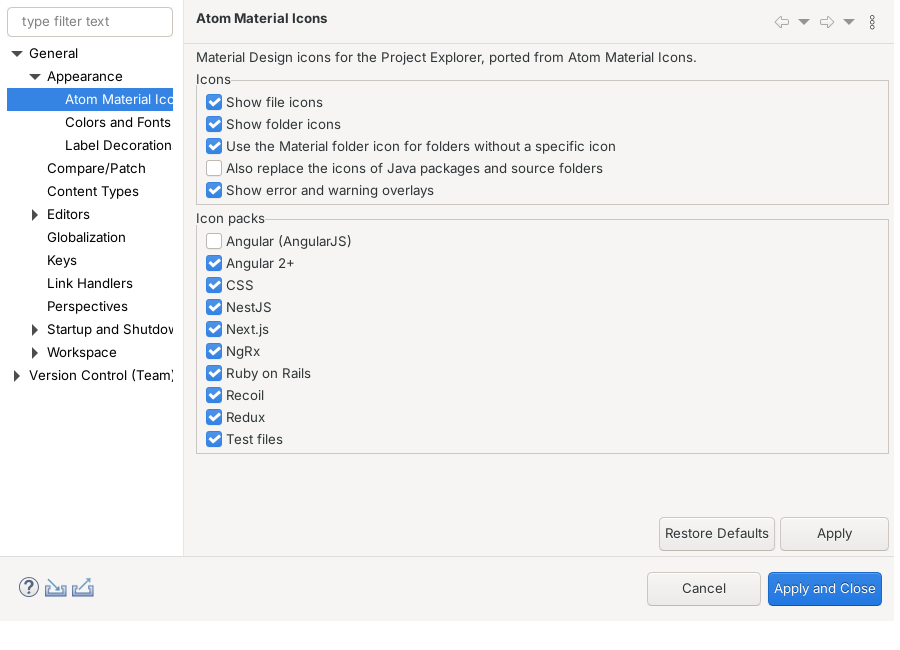
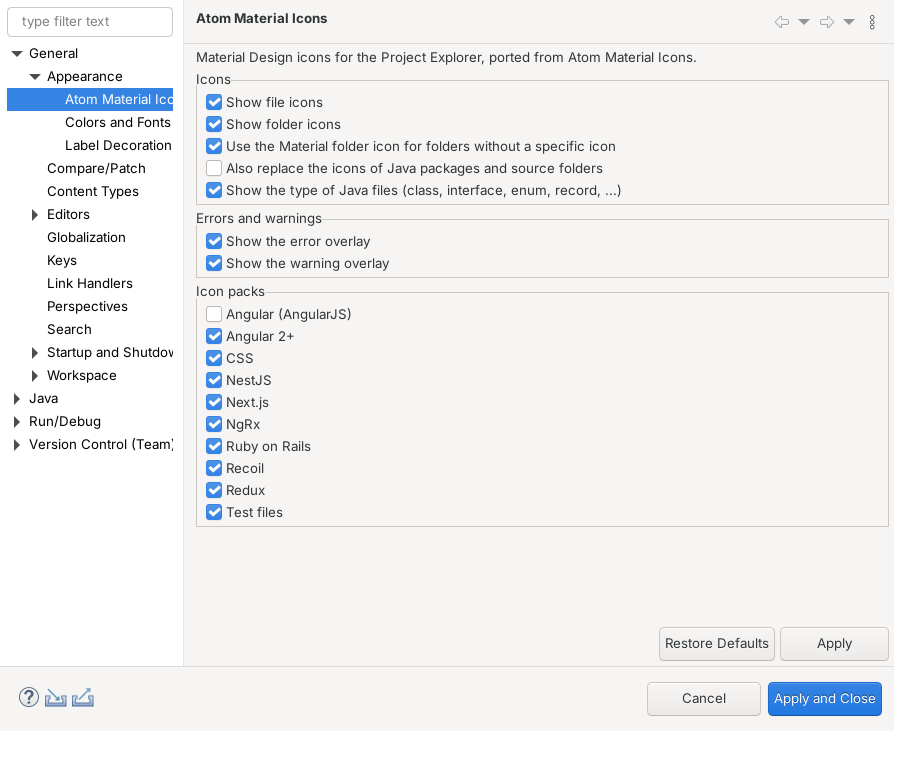
Configure error and warning overlays separately
The single "Show error and warning overlays" option becomes two options
in a new "Errors and warnings" group of the preference page. With only
warnings shown, a resource with errors and warnings shows the warning
overlay. The former combined setting is migrated to both options.

diff --git a/bundles/io.github.socra167.atommaterialicons/src/io/github/socra167/atommaterialicons/navigator/MaterialIconLabelProvider.java b/bundles/io.github.socra167.atommaterialicons/src/io/github/socra167/atommaterialicons/navigator/MaterialIconLabelProvider.java
@@ -111,8 +111,8 @@ public class MaterialIconLabelProvider extends LabelProvider
 		}
 
 		ImageDescriptor descriptor = activator.getImageDescriptor(icon);
-		if (current.problemOverlays) {
-			descriptor = addProblemOverlay(descriptor, resource);
+		if (current.errorOverlays || current.warningOverlays) {
+			descriptor = addProblemOverlay(descriptor, resource, current.errorOverlays, current.warningOverlays);
 		}
 		return getResources().create(descriptor);
 	}
@@ -140,30 +140,45 @@ public class MaterialIconLabelProvider extends LabelProvider
 		return resource.getFullPath().toString();
 	}
 
-	private static ImageDescriptor addProblemOverlay(ImageDescriptor descriptor, IResource resource) {
+	/**
+	 * Adds the overlay of the most severe problem whose overlay is enabled. When only warnings are
+	 * shown, a resource with errors and warnings still gets the warning overlay.
+	 */
+	private static ImageDescriptor addProblemOverlay(ImageDescriptor descriptor, IResource resource, boolean errors,
+			boolean warnings) {
 		if (!resource.isAccessible()) {
 			return descriptor;
 		}
-		String overlay;
+		String overlay = null;
 		try {
 			int depth = resource.getType() == IResource.FILE ? IResource.DEPTH_ZERO : IResource.DEPTH_INFINITE;
-			switch (resource.findMaxProblemSeverity(IMarker.PROBLEM, true, depth)) {
-			case IMarker.SEVERITY_ERROR:
+			int severity = resource.findMaxProblemSeverity(IMarker.PROBLEM, true, depth);
+			if (severity == IMarker.SEVERITY_ERROR && errors) {
 				overlay = ISharedImages.IMG_DEC_FIELD_ERROR;
-				break;
-			case IMarker.SEVERITY_WARNING:
+			} else if (warnings && (severity == IMarker.SEVERITY_WARNING
+					|| (severity == IMarker.SEVERITY_ERROR && hasWarnings(resource, depth)))) {
 				overlay = ISharedImages.IMG_DEC_FIELD_WARNING;
-				break;
-			default:
-				return descriptor;
 			}
 		} catch (CoreException e) {
 			// markers may change concurrently, show the plain icon
 			return descriptor;
 		}
+		if (overlay == null) {
+			return descriptor;
+		}
 		ImageDescriptor overlayDescriptor = PlatformUI.getWorkbench().getSharedImages().getImageDescriptor(overlay);
 		return new ProblemOverlayIcon(descriptor, overlayDescriptor);
 	}
+
+	private static boolean hasWarnings(IResource resource, int depth) throws CoreException {
+		for (IMarker marker : resource.findMarkers(IMarker.PROBLEM, true, depth)) {
+			if (marker.getAttribute(IMarker.SEVERITY, -1) == IMarker.SEVERITY_WARNING) {
+				return true;
+			}
+		}
+		return false;
+	}
+
 
 	private LocalResourceManager getResources() {
 		if (resources == null) {
@@ -204,7 +219,7 @@ public class MaterialIconLabelProvider extends LabelProvider
 	public void resourceChanged(IResourceChangeEvent event) {
 		Settings current = settings;
 		Set<IResource> changed = new LinkedHashSet<>();
-		if (current.problemOverlays) {
+		if (current.errorOverlays || current.warningOverlays) {
 			for (IMarkerDelta delta : event.findMarkerDeltas(IMarker.PROBLEM, true)) {
 				// the severity of folders aggregates their content, so update the ancestors too
 				for (IResource r = delta.getResource(); r != null && r.getType() != IResource.ROOT; r = r.getParent()) {
@@ -282,7 +297,7 @@ public class MaterialIconLabelProvider extends LabelProvider
 	 * Snapshot of the preferences, so that they are not looked up for every label.
 	 */
 	private record Settings(boolean fileIcons, boolean folderIcons, boolean defaultFolderIcon,
-			boolean modelElementFolders, boolean problemOverlays, boolean javaTypeIcons) {
+			boolean modelElementFolders, boolean errorOverlays, boolean warningOverlays, boolean javaTypeIcons) {
 
 		static Settings load() {
 			return new Settings(
@@ -290,7 +305,8 @@ public class MaterialIconLabelProvider extends LabelProvider
 					PreferenceConstants.getBoolean(PreferenceConstants.FOLDER_ICONS),
 					PreferenceConstants.getBoolean(PreferenceConstants.DEFAULT_FOLDER_ICON),
 					PreferenceConstants.getBoolean(PreferenceConstants.MODEL_ELEMENT_FOLDERS),
-					PreferenceConstants.getBoolean(PreferenceConstants.PROBLEM_OVERLAYS),
+					PreferenceConstants.getBoolean(PreferenceConstants.ERROR_OVERLAYS),
+					PreferenceConstants.getBoolean(PreferenceConstants.WARNING_OVERLAYS),
 					PreferenceConstants.getBoolean(PreferenceConstants.JAVA_TYPE_ICONS));
 		}
 	}

diff --git a/tests/io.github.socra167.atommaterialicons.uitests/src/io/github/socra167/atommaterialicons/uitests/ProjectExplorerIconsTest.java b/tests/io.github.socra167.atommaterialicons.uitests/src/io/github/socra167/atommaterialicons/uitests/ProjectExplorerIconsTest.java
@@ -16,6 +16,7 @@ import org.eclipse.core.resources.IProject;
 import org.eclipse.core.resources.IResource;
 import org.eclipse.core.resources.ResourcesPlugin;
 import org.eclipse.core.runtime.CoreException;
+import org.eclipse.core.runtime.preferences.IEclipsePreferences;
 import org.eclipse.core.runtime.preferences.InstanceScope;
 import org.eclipse.swt.graphics.Image;
 import org.eclipse.swt.graphics.ImageData;
@@ -54,7 +55,10 @@ class ProjectExplorerIconsTest {
 
 	@AfterEach
 	void tearDown() throws CoreException {
-		InstanceScope.INSTANCE.getNode(Activator.PLUGIN_ID).remove(PreferenceConstants.FILE_ICONS);
+		IEclipsePreferences preferences = InstanceScope.INSTANCE.getNode(Activator.PLUGIN_ID);
+		preferences.remove(PreferenceConstants.FILE_ICONS);
+		preferences.remove(PreferenceConstants.ERROR_OVERLAYS);
+		preferences.remove(PreferenceConstants.WARNING_OVERLAYS);
 		project.delete(true, true, null);
 	}
 
@@ -82,7 +86,10 @@ class ProjectExplorerIconsTest {
 		processEvents();
 		assertFalse(sameImage(imageOf(explorer, pom), "icons/files/maven.png"), "file icons should be turned off");
 
-		InstanceScope.INSTANCE.getNode(Activator.PLUGIN_ID).remove(PreferenceConstants.FILE_ICONS);
+		IEclipsePreferences preferences = InstanceScope.INSTANCE.getNode(Activator.PLUGIN_ID);
+		preferences.remove(PreferenceConstants.FILE_ICONS);
+		preferences.remove(PreferenceConstants.ERROR_OVERLAYS);
+		preferences.remove(PreferenceConstants.WARNING_OVERLAYS);
 		processEvents();
 		assertShows(explorer, "icons/files/maven.png", pom);
 	}
@@ -106,6 +113,54 @@ class ProjectExplorerIconsTest {
 		processEvents();
 		assertShows(explorer, "icons/files/java.png", java);
 		assertShows(explorer, "icons/folders/src.png", project.getFolder("src"));
+	}
+
+	@Test
+	void errorAndWarningOverlaysCanBeTurnedOffSeparately() throws CoreException {
+		IEclipsePreferences preferences = InstanceScope.INSTANCE.getNode(Activator.PLUGIN_ID);
+		IFile java = project.getFile("src/Foo.java");
+		IFile pom = project.getFile("pom.xml");
+		IMarker error = java.createMarker(IMarker.PROBLEM);
+		error.setAttribute(IMarker.SEVERITY, IMarker.SEVERITY_ERROR);
+		IMarker warning = java.createMarker(IMarker.PROBLEM);
+		warning.setAttribute(IMarker.SEVERITY, IMarker.SEVERITY_WARNING);
+		pom.createMarker(IMarker.PROBLEM).setAttribute(IMarker.SEVERITY, IMarker.SEVERITY_WARNING);
+		processEvents();
+		assertTrue(redPixelsInBottomLeft(imageOf(explorer, java).getImageData()) > 10, "error overlay");
+		assertTrue(yellowPixelsInBottomLeft(imageOf(explorer, pom).getImageData()) > 5, "warning overlay");
+
+		// without error overlays, a file with errors and warnings shows the warning
+		preferences.putBoolean(PreferenceConstants.ERROR_OVERLAYS, false);
+		processEvents();
+		ImageData javaImage = imageOf(explorer, java).getImageData();
+		assertTrue(redPixelsInBottomLeft(javaImage) == 0, "no error overlay");
+		assertTrue(yellowPixelsInBottomLeft(javaImage) > 5, "warning overlay instead");
+		error.delete();
+		warning.delete();
+		error = java.createMarker(IMarker.PROBLEM);
+		error.setAttribute(IMarker.SEVERITY, IMarker.SEVERITY_ERROR);
+		processEvents();
+		assertShows(explorer, "icons/files/java.png", java);
+
+		// without warning overlays
+		preferences.putBoolean(PreferenceConstants.ERROR_OVERLAYS, true);
+		preferences.putBoolean(PreferenceConstants.WARNING_OVERLAYS, false);
+		processEvents();
+		assertTrue(redPixelsInBottomLeft(imageOf(explorer, java).getImageData()) > 10, "error overlay");
+		assertShows(explorer, "icons/files/maven.png", pom);
+	}
+
+	private static int yellowPixelsInBottomLeft(ImageData image) {
+		int count = 0;
+		for (int x = 0; x < 7; x++) {
+			for (int y = image.height - 8; y < image.height; y++) {
+				RGB rgb = image.palette.getRGB(image.getPixel(x, y));
+				if (image.getAlpha(x, y) > 0 && rgb.red > 180 && rgb.green > 120 && rgb.blue < 110) {
+					count++;
+				}
+			}
+		}
+		return count;
 	}
 
 	private static int redPixelsInBottomLeft(ImageData image) {

diff --git a/tests/io.github.socra167.atommaterialicons.uitests/src/io/github/socra167/atommaterialicons/uitests/PreferencePageTest.java b/tests/io.github.socra167.atommaterialicons.uitests/src/io/github/socra167/atommaterialicons/uitests/PreferencePageTest.java
@@ -2,18 +2,23 @@ package io.github.socra167.atommaterialicons.uitests;
 
 import static org.junit.jupiter.api.Assertions.assertEquals;
 import static org.junit.jupiter.api.Assertions.assertFalse;
+import static org.junit.jupiter.api.Assertions.assertNotSame;
+import static org.junit.jupiter.api.Assertions.assertNull;
+import static org.junit.jupiter.api.Assertions.assertSame;
 import static org.junit.jupiter.api.Assertions.assertTrue;
 import static org.junit.jupiter.api.Assertions.fail;
 
 import java.util.ArrayList;
 import java.util.List;
 
+import org.eclipse.core.runtime.preferences.IEclipsePreferences;
 import org.eclipse.core.runtime.preferences.InstanceScope;
 import org.eclipse.swt.SWT;
 import org.eclipse.swt.layout.FillLayout;
 import org.eclipse.swt.widgets.Button;
 import org.eclipse.swt.widgets.Composite;
 import org.eclipse.swt.widgets.Control;
+import org.eclipse.swt.widgets.Group;
 import org.eclipse.swt.widgets.Shell;
 import org.eclipse.ui.PlatformUI;
 import org.junit.jupiter.api.AfterEach;
@@ -23,6 +28,7 @@ import org.junit.jupiter.api.Test;
 import io.github.socra167.atommaterialicons.Activator;
 import io.github.socra167.atommaterialicons.preferences.MaterialIconsPreferencePage;
 import io.github.socra167.atommaterialicons.preferences.PreferenceConstants;
+import io.github.socra167.atommaterialicons.preferences.PreferenceInitializer;
 
 class PreferencePageTest {
 
@@ -48,11 +54,42 @@ class PreferencePageTest {
 	@Test
 	void showsAllOptionsWithTheirDefaults() {
 		List<Button> checkboxes = checkboxes(shell);
-		assertEquals(6 + PreferenceConstants.ICON_PACKS.size(), checkboxes.size());
+		assertEquals(7 + PreferenceConstants.ICON_PACKS.size(), checkboxes.size());
 		assertTrue(checkbox("Show &file icons").getSelection());
 		assertFalse(checkbox("Also replace the icons of &Java packages and source folders").getSelection());
 		assertFalse(checkbox("Angular (AngularJS)").getSelection());
 		assertTrue(checkbox("Redux").getSelection());
+	}
+
+	@Test
+	void groupsTheErrorAndWarningOptions() {
+		Button error = checkbox("Show the &error overlay");
+		Button warning = checkbox("Show the &warning overlay");
+		assertTrue(error.getSelection());
+		assertTrue(warning.getSelection());
+		assertTrue(error.getParent() instanceof Group group && "Errors and warnings".equals(group.getText()));
+		assertSame(error.getParent(), warning.getParent());
+		assertNotSame(error.getParent(), checkbox("Show &file icons").getParent());
+	}
+
+	@Test
+	void storesErrorAndWarningOptionsSeparately() {
+		Button warning = checkbox("Show the &warning overlay");
+		warning.setSelection(false);
+		warning.notifyListeners(SWT.Selection, null);
+		assertTrue(page.performOk());
+		assertTrue(PreferenceConstants.getBoolean(PreferenceConstants.ERROR_OVERLAYS));
+		assertFalse(PreferenceConstants.getBoolean(PreferenceConstants.WARNING_OVERLAYS));
+	}
+
+	@Test
+	void migratesTheFormerCombinedOption() {
+		IEclipsePreferences preferences = InstanceScope.INSTANCE.getNode(Activator.PLUGIN_ID);
+		preferences.putBoolean("problemOverlays", false);
+		new PreferenceInitializer().initializeDefaultPreferences();
+		assertNull(preferences.get("problemOverlays", null));
+		assertFalse(PreferenceConstants.getBoolean(PreferenceConstants.ERROR_OVERLAYS));
+		assertFalse(PreferenceConstants.getBoolean(PreferenceConstants.WARNING_OVERLAYS));
 	}
 
 	@Test

diff --git a/bundles/io.github.socra167.atommaterialicons/src/io/github/socra167/atommaterialicons/preferences/PreferenceInitializer.java b/bundles/io.github.socra167.atommaterialicons/src/io/github/socra167/atommaterialicons/preferences/PreferenceInitializer.java
@@ -3,6 +3,7 @@ package io.github.socra167.atommaterialicons.preferences;
 import org.eclipse.core.runtime.preferences.AbstractPreferenceInitializer;
 import org.eclipse.core.runtime.preferences.DefaultScope;
 import org.eclipse.core.runtime.preferences.IEclipsePreferences;
+import org.eclipse.core.runtime.preferences.InstanceScope;
 
 import io.github.socra167.atommaterialicons.Activator;
 
@@ -16,12 +17,28 @@ public class PreferenceInitializer extends AbstractPreferenceInitializer {
 		IEclipsePreferences defaults = DefaultScope.INSTANCE.getNode(Activator.PLUGIN_ID);
 		for (String key : new String[] { PreferenceConstants.FILE_ICONS, PreferenceConstants.FOLDER_ICONS,
 				PreferenceConstants.DEFAULT_FOLDER_ICON, PreferenceConstants.MODEL_ELEMENT_FOLDERS,
-				PreferenceConstants.JAVA_TYPE_ICONS, PreferenceConstants.PROBLEM_OVERLAYS }) {
+				PreferenceConstants.JAVA_TYPE_ICONS, PreferenceConstants.ERROR_OVERLAYS,
+				PreferenceConstants.WARNING_OVERLAYS }) {
 			defaults.putBoolean(key, getDefault(key));
 		}
 		for (String pack : PreferenceConstants.ICON_PACKS) {
 			String key = PreferenceConstants.PACK_PREFIX + pack;
 			defaults.putBoolean(key, getDefault(key));
+		}
+		migrateProblemOverlays();
+	}
+
+	/**
+	 * Earlier versions had one switch for error and warning overlays; carry it over to both.
+	 */
+	private static void migrateProblemOverlays() {
+		IEclipsePreferences instance = InstanceScope.INSTANCE.getNode(Activator.PLUGIN_ID);
+		String legacy = instance.get(PreferenceConstants.LEGACY_PROBLEM_OVERLAYS, null);
+		if (legacy != null) {
+			boolean enabled = Boolean.parseBoolean(legacy);
+			instance.putBoolean(PreferenceConstants.ERROR_OVERLAYS, enabled);
+			instance.putBoolean(PreferenceConstants.WARNING_OVERLAYS, enabled);
+			instance.remove(PreferenceConstants.LEGACY_PROBLEM_OVERLAYS);
 		}
 	}
 

diff --git a/tests/io.github.socra167.atommaterialicons.uitests/src/io/github/socra167/atommaterialicons/uitests/JavaTypeIconsTest.java b/tests/io.github.socra167.atommaterialicons.uitests/src/io/github/socra167/atommaterialicons/uitests/JavaTypeIconsTest.java
@@ -53,7 +53,8 @@ class JavaTypeIconsTest {
 	@BeforeEach
 	void setUp() throws CoreException, PartInitException {
 		// the project has no JRE, so the build reports errors; compare the icons without overlays
-		InstanceScope.INSTANCE.getNode(Activator.PLUGIN_ID).putBoolean(PreferenceConstants.PROBLEM_OVERLAYS, false);
+		InstanceScope.INSTANCE.getNode(Activator.PLUGIN_ID).putBoolean(PreferenceConstants.ERROR_OVERLAYS, false);
+		InstanceScope.INSTANCE.getNode(Activator.PLUGIN_ID).putBoolean(PreferenceConstants.WARNING_OVERLAYS, false);
 		IDecoratorManager decorators = PlatformUI.getWorkbench().getDecoratorManager();
 		typeIndicatorEnabled = decorators.getEnabled(TYPE_INDICATOR);
 		decorators.setEnabled(TYPE_INDICATOR, false);
@@ -96,7 +97,8 @@ class JavaTypeIconsTest {
 	void tearDown() throws CoreException {
 		PlatformUI.getWorkbench().getDecoratorManager().setEnabled(TYPE_INDICATOR, typeIndicatorEnabled);
 		InstanceScope.INSTANCE.getNode(Activator.PLUGIN_ID).remove(PreferenceConstants.JAVA_TYPE_ICONS);
-		InstanceScope.INSTANCE.getNode(Activator.PLUGIN_ID).remove(PreferenceConstants.PROBLEM_OVERLAYS);
+		InstanceScope.INSTANCE.getNode(Activator.PLUGIN_ID).remove(PreferenceConstants.ERROR_OVERLAYS);
+		InstanceScope.INSTANCE.getNode(Activator.PLUGIN_ID).remove(PreferenceConstants.WARNING_OVERLAYS);
 		project.delete(true, true, null);
 	}
 

diff --git a/bundles/io.github.socra167.atommaterialicons/src/io/github/socra167/atommaterialicons/preferences/PreferenceConstants.java b/bundles/io.github.socra167.atommaterialicons/src/io/github/socra167/atommaterialicons/preferences/PreferenceConstants.java
@@ -26,8 +26,14 @@ public final class PreferenceConstants {
 	/** Show the type declared in Java source files (class, interface, enum, ...), requires JDT. */
 	public static final String JAVA_TYPE_ICONS = "javaTypeIcons"; //$NON-NLS-1$
 
-	/** Paint error and warning overlays on the icons. */
-	public static final String PROBLEM_OVERLAYS = "problemOverlays"; //$NON-NLS-1$
+	/** Paint the error overlay on the icons of resources with errors. */
+	public static final String ERROR_OVERLAYS = "errorOverlays"; //$NON-NLS-1$
+
+	/** Paint the warning overlay on the icons of resources with warnings. */
+	public static final String WARNING_OVERLAYS = "warningOverlays"; //$NON-NLS-1$
+
+	/** Former single switch for both overlays, migrated to {@link #ERROR_OVERLAYS} and {@link #WARNING_OVERLAYS}. */
+	static final String LEGACY_PROBLEM_OVERLAYS = "problemOverlays"; //$NON-NLS-1$
 
 	/** Prefix of the keys that enable an icon pack, followed by the pack name. */
 	public static final String PACK_PREFIX = "iconPack."; //$NON-NLS-1$

diff --git a/bundles/io.github.socra167.atommaterialicons/src/io/github/socra167/atommaterialicons/preferences/MaterialIconsPreferencePage.java b/bundles/io.github.socra167.atommaterialicons/src/io/github/socra167/atommaterialicons/preferences/MaterialIconsPreferencePage.java
@@ -34,7 +34,10 @@ public class MaterialIconsPreferencePage extends FieldEditorPreferencePage imple
 		addBoolean(PreferenceConstants.DEFAULT_FOLDER_ICON, Messages.PreferencePage_defaultFolderIcon, icons);
 		addBoolean(PreferenceConstants.MODEL_ELEMENT_FOLDERS, Messages.PreferencePage_modelElementFolders, icons);
 		addBoolean(PreferenceConstants.JAVA_TYPE_ICONS, Messages.PreferencePage_javaTypeIcons, icons);
-		addBoolean(PreferenceConstants.PROBLEM_OVERLAYS, Messages.PreferencePage_problemOverlays, icons);
+
+		Composite problems = createGroup(Messages.PreferencePage_problemsGroup);
+		addBoolean(PreferenceConstants.ERROR_OVERLAYS, Messages.PreferencePage_errorOverlays, problems);
+		addBoolean(PreferenceConstants.WARNING_OVERLAYS, Messages.PreferencePage_warningOverlays, problems);
 
 		Composite packs = createGroup(Messages.PreferencePage_iconPacksGroup);
 		for (String pack : PreferenceConstants.ICON_PACKS) {

diff --git a/bundles/io.github.socra167.atommaterialicons/src/io/github/socra167/atommaterialicons/preferences/Messages.java b/bundles/io.github.socra167.atommaterialicons/src/io/github/socra167/atommaterialicons/preferences/Messages.java
@@ -13,7 +13,9 @@ final class Messages extends NLS {
 	public static String PreferencePage_defaultFolderIcon;
 	public static String PreferencePage_modelElementFolders;
 	public static String PreferencePage_javaTypeIcons;
-	public static String PreferencePage_problemOverlays;
+	public static String PreferencePage_problemsGroup;
+	public static String PreferencePage_errorOverlays;
+	public static String PreferencePage_warningOverlays;
 	public static String PreferencePage_iconPacksGroup;
 	public static String PreferencePage_pack_ANGULAR;
 	public static String PreferencePage_pack_ANGULAR2;
